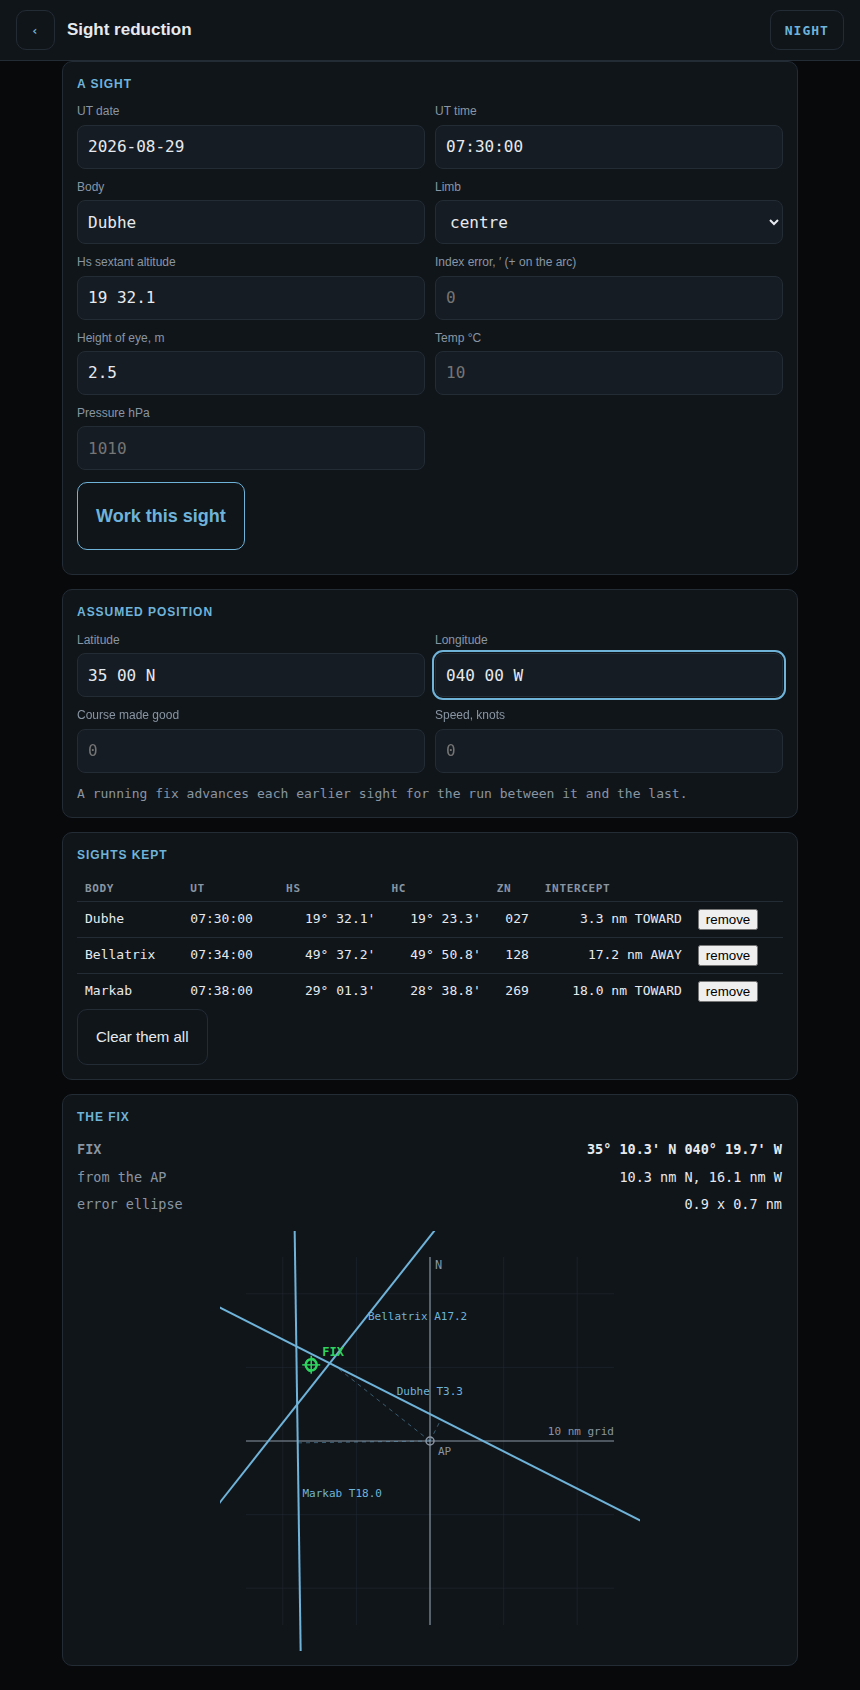
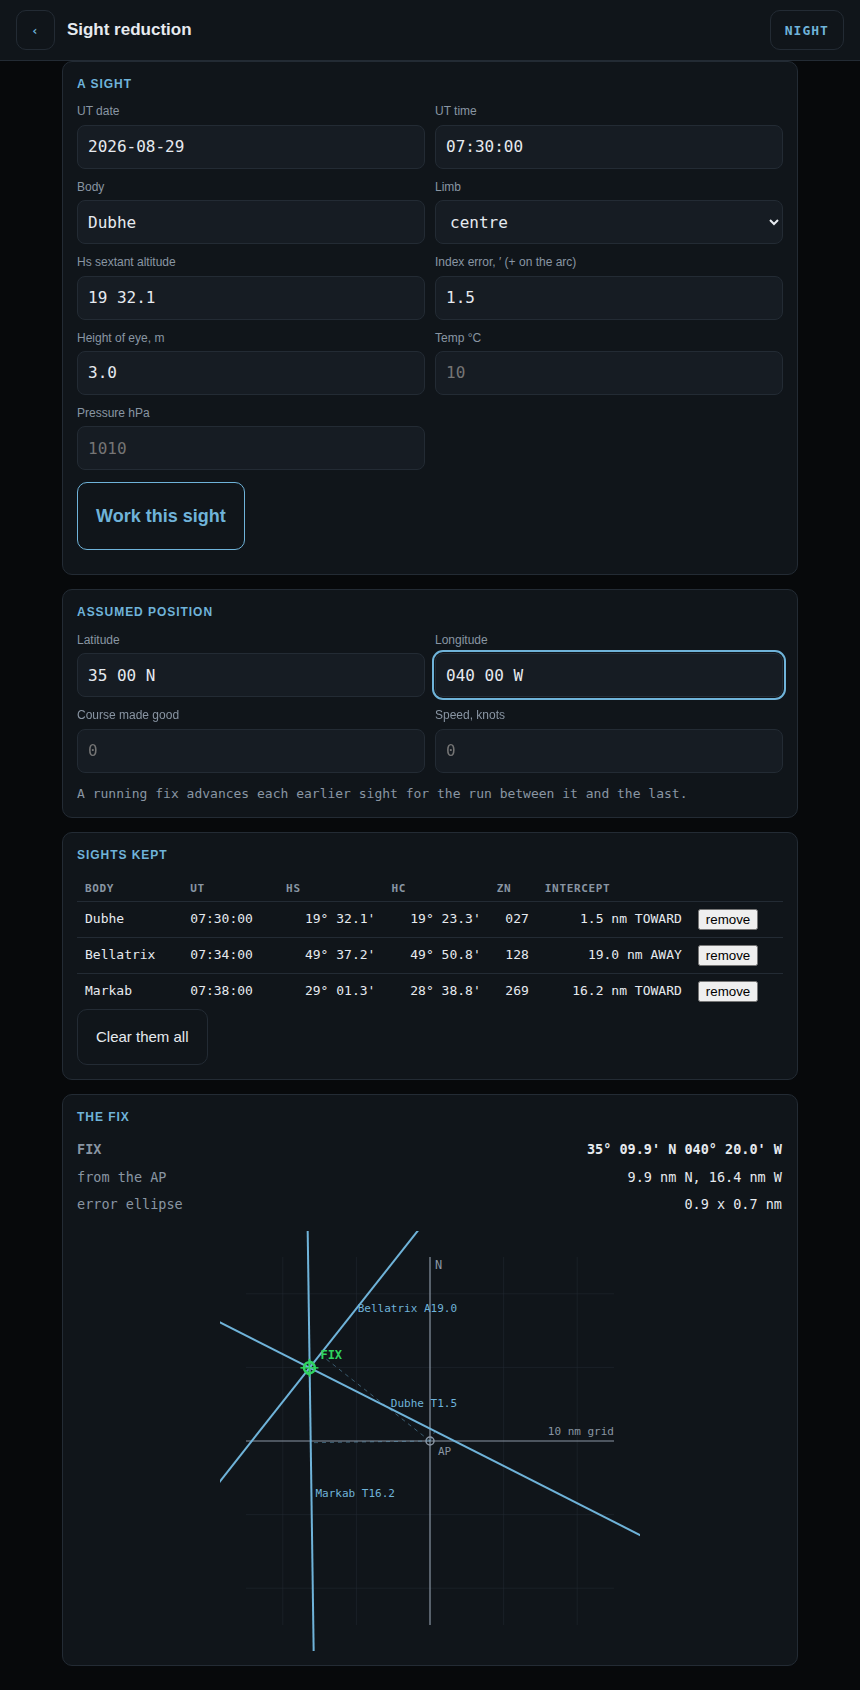
The README showed ASCII too: its pictures are the apps' drawings now
Larry opened the repository on GitHub and said the link still showed
ascii. It did. The figure work replaced what docs/index.html shows and
never touched README.md, which is the page most people actually read:
its two pictures were still ansi2svg renderings of a terminal - 139 and
273 <text> elements between them and no geometry at all.

They are the apps' own drawings now, and so is a third the README
described but never showed.

  celnav-plot      the plotting sheet
  colregs-encounter  the encounter, head up
  colregs-contacts   the relative-motion plot, new - the contacts
                     section had no picture

AND THE PICTURES HAD TO AGREE WITH THE WORDS BESIDE THEM, which took
more than a swap:

  The celnav figure was captured with ie 0 and he 2.5, and the shell
  output printed above it in the README uses the project's worked
  example - 1.5' on the arc and 3.0 m. Same sights, different corrections,
  so the plot's labels read 3.3, 17.2 and 18.0 against the text's 1.5,
  -19.0 and 16.2. The capture uses the worked example now and the labels
  read T1.5, A19.0 and T16.2.

  The encounter block was a Rule 18 case - she is power-driven, you are
  under sail - and the app's encounter figure is the Rule 10 traffic
  separation scheme. Nothing in the seeded sequence is the Rule 18 case,
  and the shell's own text for the Rule 10 one cannot be used either: it
  randomises the bearing from a different generator, so it says 077 and
[…]

diff --git a/docs/web/gen/app-figures.js b/docs/web/gen/app-figures.js
@@ -149,8 +149,15 @@ const FIGURES = [
         [['Dubhe', '07:30:00', '19 32.1'], ['Bellatrix', '07:34:00', '49 37.2'],
          ['Markab', '07:38:00', '29 01.3']].forEach(([body, t, hs]) => {
           const utc = '2026-08-29 ' + t;
+          /*  THE PROJECT'S WORKED EXAMPLE, index error and height of eye
+              included: 1.5' on the arc and 3.0 m, which is what README.md
+              and docs/make-site.sh both use. Captured with ie 0 and he
+              2.5 the picture was right but disagreed with the shell
+              output printed beside it in the README - intercepts of
+              3.3, 17.2 and 18.0 against the text's 1.5, -19.0 and 16.2.
+              A figure and the words next to it have to be the same run.  */
           window.CELPLOT.add({ body, utc, jd: C.parse_utc(utc), hs: C.parse_ang(hs),
-                               ie: 0, he: 2.5, tm: 10, pr: 1010, limb: 'C' });
+                               ie: 1.5, he: 3.0, tm: 10, pr: 1010, limb: 'C' });
         });
       });
       await p.fill('#s-alat', '35 00 N');
@@ -243,15 +250,23 @@ const FIGURES = [
       await p.fill('#s-time', '07:30:00');
       await p.fill('#s-body', 'Dubhe');
       await p.fill('#s-hs', '19 32.1');
-      await p.fill('#s-he', '2.5');
+      await p.fill('#s-ie', '1.5');
+      await p.fill('#s-he', '3.0');
       await p.evaluate(() => {
         const C = extendCelnav(makeCelnav(window.CELNAV_TABLES));
         window.CELPLOT.clear();
         [['Dubhe', '07:30:00', '19 32.1'], ['Bellatrix', '07:34:00', '49 37.2'],
          ['Markab', '07:38:00', '29 01.3']].forEach(([body, t, hs]) => {
           const utc = '2026-08-29 ' + t;
+          /*  THE PROJECT'S WORKED EXAMPLE, index error and height of eye
+              included: 1.5' on the arc and 3.0 m, which is what README.md
+              and docs/make-site.sh both use. Captured with ie 0 and he
+              2.5 the picture was right but disagreed with the shell
+              output printed beside it in the README - intercepts of
+              3.3, 17.2 and 18.0 against the text's 1.5, -19.0 and 16.2.
+              A figure and the words next to it have to be the same run.  */
           window.CELPLOT.add({ body, utc, jd: C.parse_utc(utc), hs: C.parse_ang(hs),
-                               ie: 0, he: 2.5, tm: 10, pr: 1010, limb: 'C' });
+                               ie: 1.5, he: 3.0, tm: 10, pr: 1010, limb: 'C' });
         });
       });
       await p.fill('#s-alat', '35 00 N');

diff --git a/README.md b/README.md
@@ -63,7 +63,7 @@ and decide whether to believe it.
     c Markab     Zn 269 T   intercept from DR   16.2   residual  +0.01
 ```
 
-<img src="docs/img/celnav-plot.svg" alt="The intercept plot: three star sights, their lines of position, the fix and its error ellipse" width="675">
+<img src="docs/img/app/celnav-plot.svg" alt="The plotting sheet the app draws: the assumed position at the centre, a labelled line of position for each of the three sights, and the fix where they cross" width="675">
 
 ### An encounter, and what you do about it
 
@@ -72,14 +72,20 @@ which rule decided it — and only then gives you the bearing as a number, so th
 number cannot give the answer away.
 
 ```
-  A is right -- Rule 18
-  She is a power-driven vessel and you are under sail, so she keeps clear.
-  Stand on - but keep watching, and be ready to act under Rule 17 if she
-  does nothing.
-  (she bore 340 relative -- Red 20)
+  You are a 12 m yacht under sail, crossing a traffic separation scheme.
+  You see a container ship following the lane, broad on your starboard bow,
+  heading as drawn.
+
+  Right - the answer is B.   Rule 10.
+  Rule 10(j): a vessel under 20 metres or a sailing vessel shall not impede
+  the safe passage of a power-driven vessel following a traffic lane. And
+  Rule 10(c) says cross on a heading as nearly as practicable at right
+  angles to the flow - heading, not ground track, because a beam-on aspect
+  is what makes you visible and predictable.
+  (she bore 051 relative -- Green 51.)
 ```
 
-<img src="docs/img/colregs-scenario.svg" alt="An encounter scenario drawn head-up, with the contact's heading and the wind" width="675">
+<img src="docs/img/app/colregs-encounter.svg" alt="The encounter drawn head-up: your own vessel at the centre, the container ship on her bearing with her heading shown, and the range rings between you" width="675">
 
 ### Does she pass ahead of you, or astern?
 
@@ -107,6 +113,13 @@ only readable once you have changed down.
   "Master 2, bearing 186, Red 58, drawing left, range 4,700,
    CPA 2,500 at 18 minutes."
 ```
+
+<img src="docs/img/app/colregs-contacts.svg" alt="A relative-motion plot on the twelve mile radar scale: five marks three minutes apart running in toward own ship, with the closest point of approach marked" width="560">
+
+That plot is a different contact from the report above — five marks closing to a
+hundred yards astern, on the 12 mile scale, which is the smallest scale that
+still holds her. Changing down is the whole point: on a 24 mile picture those
+five marks sit on top of one another and the CPA cannot be read at all.
 
 How a relative bearing is spoken is a setting — Red/Green, Port/Starboard,
 `340 relative`, in words, or the true bearing alone. Which one is right
